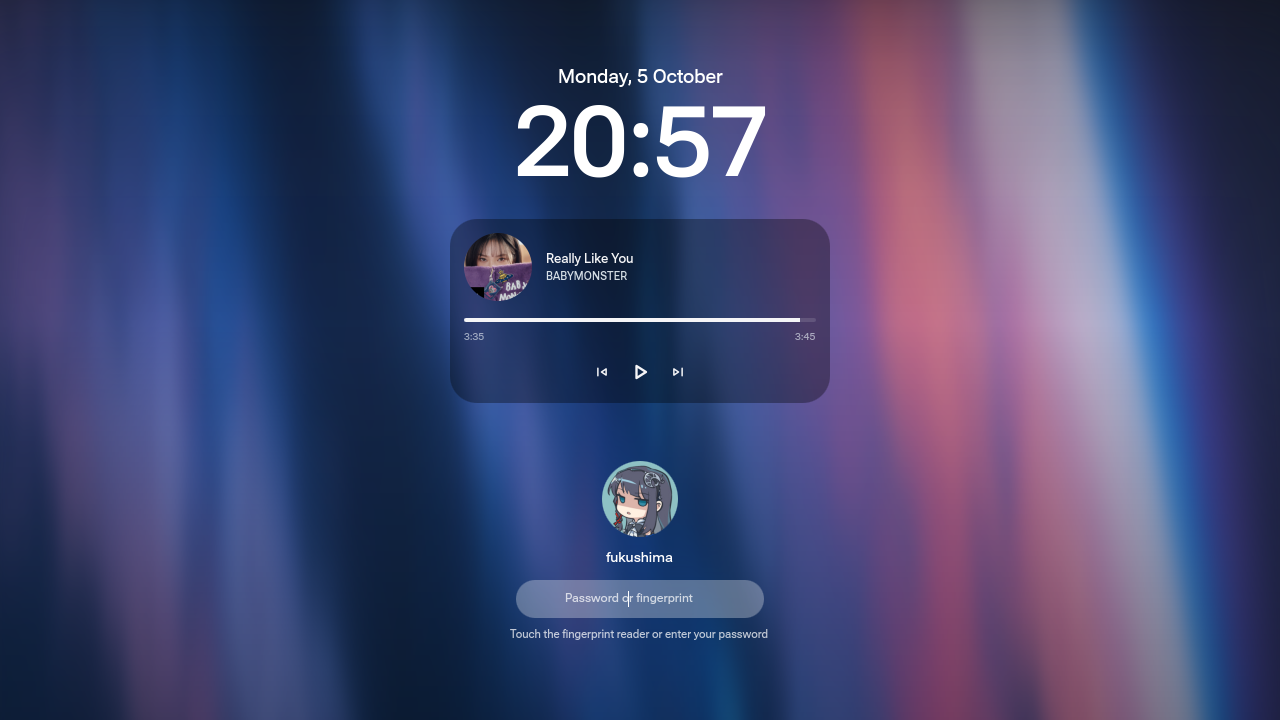
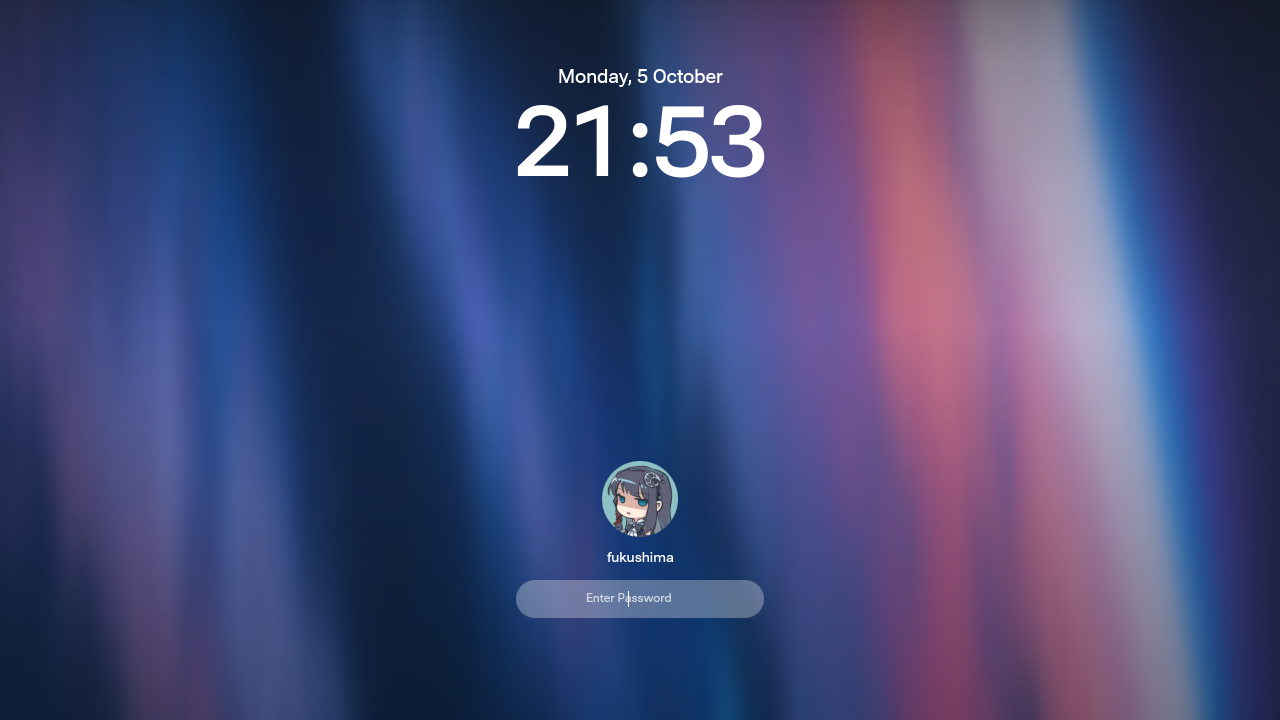
launcher: isolate the greeter from a logged-in user's session
The committed screenshot showed a media card with the current track on
the login screen. That is wrong, and it was a test artefact: the greeter
was being run as the logged-in user, so the theme's MPRIS widget found
their running player.

Two fixes.

The launcher now unsets the session-linked variables it has no business
forwarding: DBUS_SESSION_BUS_ADDRESS, SSH_AUTH_SOCK,
GNOME_KEYRING_CONTROL, DISPLAY, XAUTHORITY, the compositor IPC sockets,
PULSE_SERVER and PIPEWIRE_REMOTE.

That alone is not sufficient, which the measurement showed: with
DBUS_SESSION_BUS_ADDRESS unset the card still rendered, because libdbus
falls back to $XDG_RUNTIME_DIR/bus. So the launcher also refuses to
start when XDG_RUNTIME_DIR is owned by another uid - every session
socket lives in there. Verified:

  XDG_RUNTIME_DIR=/run quickshell-greetd-launcher
  -> XDG_RUNTIME_DIR (/run) belongs to uid 0, not 1000; refusing

Under greetd this is already true by construction, since the greeter has
its own user and runtime directory. These guards cover the abnormal
cases.

docs/screenshot.png is replaced with one taken against an unreachable
bus, which is what a real greeter looks like: clock, avatar, user,
password field, no media card.

diff --git a/docs/THEME_CONTRACT.md b/docs/THEME_CONTRACT.md
@@ -138,7 +138,7 @@ authenticates *another* user from a bare `greeter` account. The gap is real:
 | Keyring unlock | Same answer: `auth optional pam_gnome_keyring.so` plus `session optional pam_gnome_keyring.so auto_start`. The greeter never touches the keyring. |
 | Avatar | `~/.face` is unreadable (home is mode 700). Use the shared store: `sudo qsgreet-set-avatar <image>` writes `/var/cache/quickshell-greetd/avatars/<user>`, which the launcher prefers over `/var/lib/AccountsService/icons/<user>`. |
 | Wallpaper and generated colours | Also unreadable for the same reason. `qsgreet-theme-prepare --appearance` exports them into the theme and the launcher points `XDG_CONFIG_HOME` / `XDG_STATE_HOME` at the copy. Video wallpapers are skipped; set `background.thumbnailPath` to a still. |
-| MPRIS media card | **Not solvable, deliberately.** Nobody is logged in, so there is no session bus to read. Reaching into `/run/user/<uid>/bus` would let the greeter drive a logged-out user's session. The widget hides itself. |
+| MPRIS media card | **Not solvable, deliberately.** Nobody is logged in, so there is no session bus and the widget hides itself. Verified by making the bus unreachable: the card disappears. Note that unsetting `DBUS_SESSION_BUS_ADDRESS` alone is *not* enough - libdbus falls back to `$XDG_RUNTIME_DIR/bus`, so what actually isolates the greeter is running as its own user with its own runtime directory. The launcher enforces that: it refuses to start if `XDG_RUNTIME_DIR` is owned by somebody else. |
 | Notifications | **Should not be solved.** Notification history is private; rendering it before authentication means anyone at the keyboard reads it. |
 | Weather, network, audio | Need user session state or polkit grants. Blank. A greeter-side fetch is possible for weather since it is public data, but is not implemented. |
 | Compositor IPC (Hyprland, niri) | No instance signature; dependent features stay inert. |
